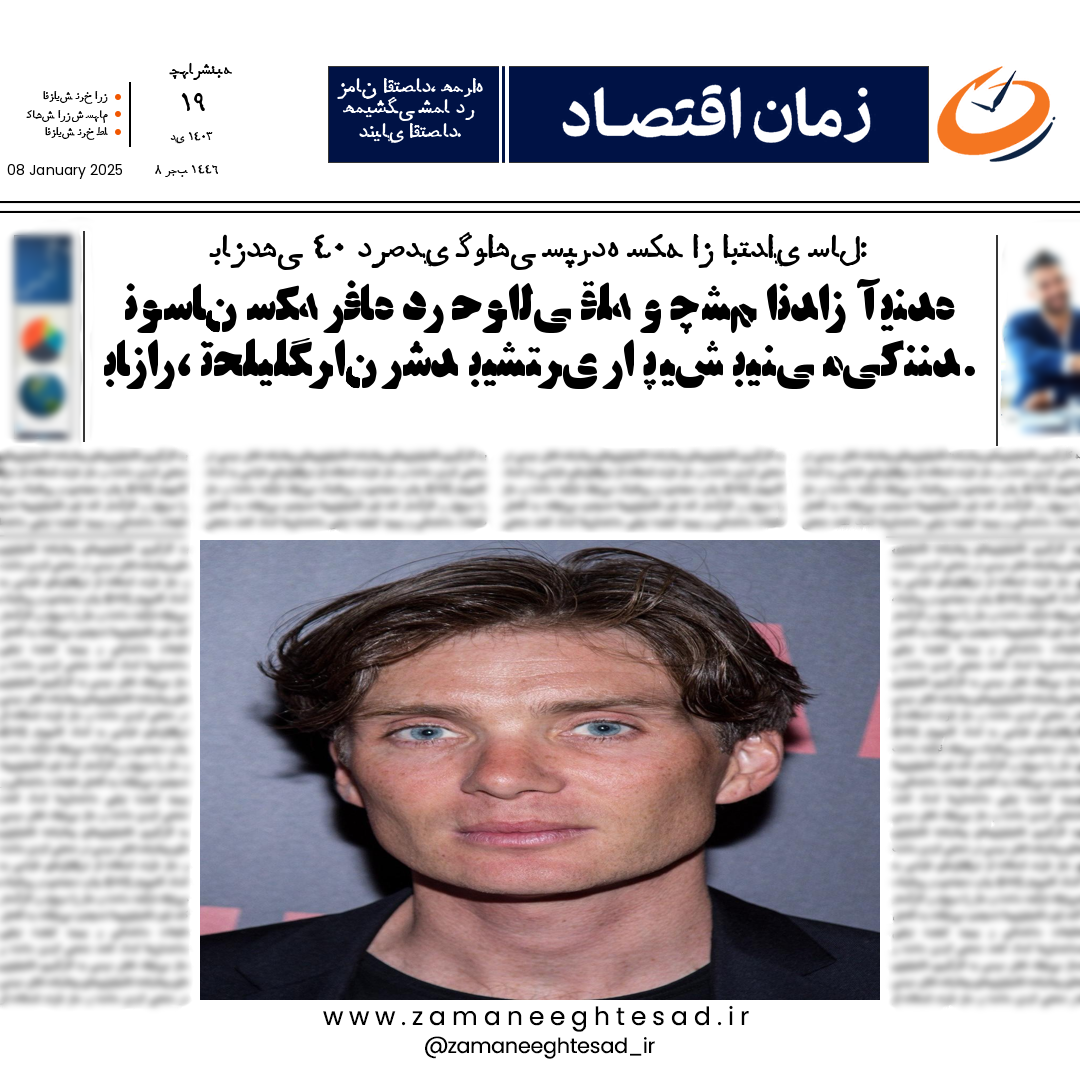
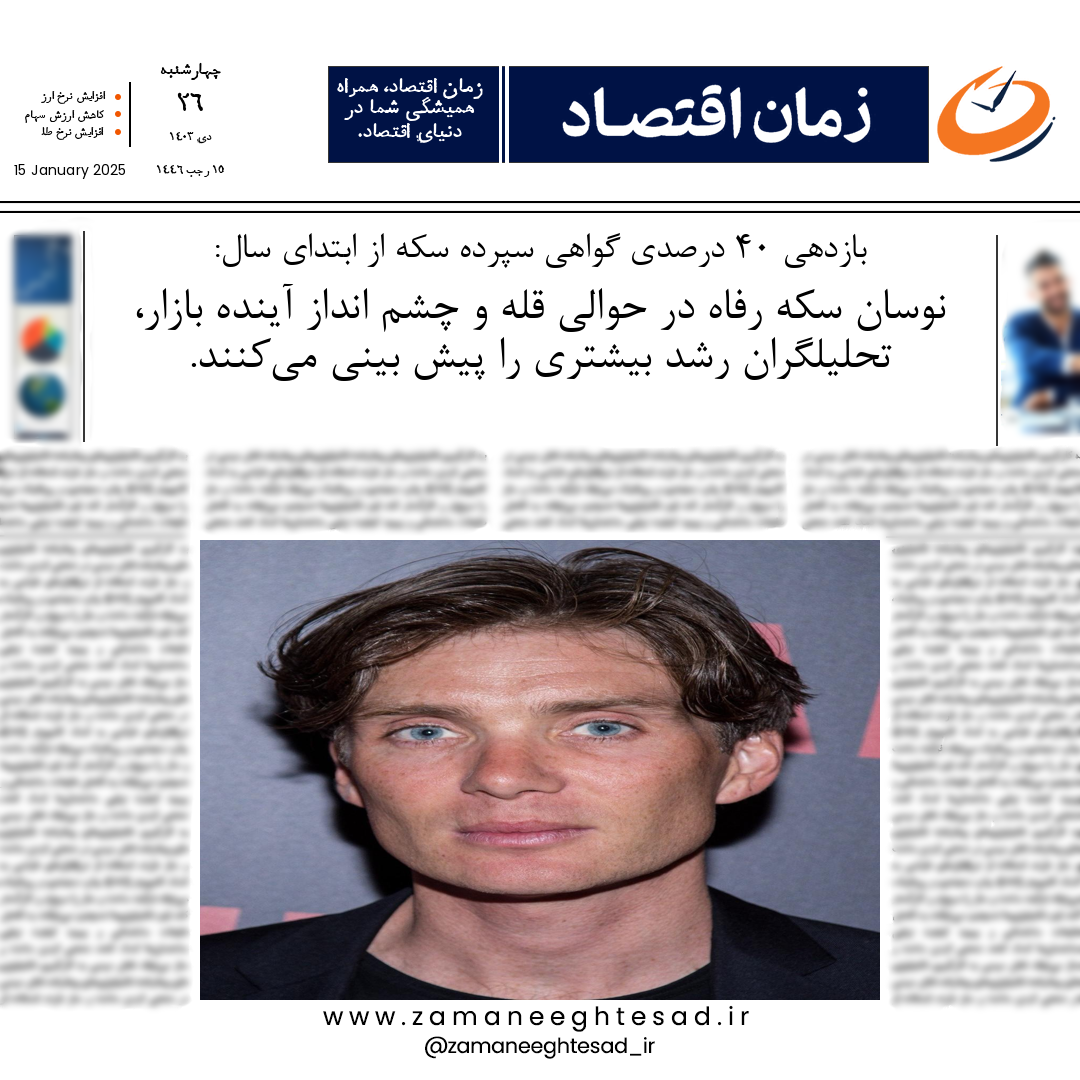
added center alignment for dates

diff --git a/generate_image.py b/generate_image.py
@@ -87,8 +87,8 @@ def generate_news_image(
     # Function to reshape and reorder Farsi text
     def prepare_farsi_text(text):
         reshaped_text = arabic_reshaper.reshape(text)
-        bidi_text = get_display(reshaped_text)
-        return bidi_text
+        # bidi_text = get_display(reshaped_text)
+        return reshaped_text
 
     # Prepare dates
     future_date = datetime.now() + timedelta(days=days_into_future)
@@ -104,34 +104,51 @@ def generate_news_image(
 
     # Default positions
     date_positions =  {
-        "weekday": (170, 60),  # Position of the day of the week in Shamsi calendar
-        "shamsi_day": (180, 90),  # Position of the day number in Shamsi calendar
-        "shamsi_month_year": (170, 130),  # Position of the month and year in Shamsi calendar
-        "miladi": (7, 160),  # Position of the Gregorian date
-        "hejri": (155, 163),  # Position of the Hijri (Islamic) date
+        "weekday": (190, 60),  # Position of the day of the week in Shamsi calendar
+        "shamsi_day": (190, 90),  # Position of the day number in Shamsi calendar
+        "shamsi_month_year": (190, 130),  # Position of the month and year in Shamsi calendar
+        "miladi": (70, 160),  # Position of the Gregorian date
+        "hejri": (190, 163),  # Position of the Hijri (Islamic) date
     }
 
     # Draw dates
     # Draw day of the week
+    # Draw weekday (center-aligned)
     weekday_text = prepare_farsi_text(weekday)
-    draw.text(date_positions["weekday"], weekday_text, font=weekday_font, fill="black")
+    weekday_bbox = draw.textbbox((0, 0), weekday_text, font=weekday_font)
+    weekday_width = weekday_bbox[2] - weekday_bbox[0]
+    weekday_x = date_positions["weekday"][0] - (weekday_width // 2)  # Center-align
+    draw.text((weekday_x, date_positions["weekday"][1]), weekday_text, font=weekday_font, fill="black")
 
-    # Draw Shamsi day
+    # Draw Shamsi day (center-aligned)
     shamsi_day_text = prepare_farsi_text(shamsi_day)
-    draw.text(date_positions["shamsi_day"], shamsi_day_text, font=shamsi_day_font, fill="black")
+    shamsi_day_bbox = draw.textbbox((0, 0), shamsi_day_text, font=shamsi_day_font)
+    shamsi_day_width = shamsi_day_bbox[2] - shamsi_day_bbox[0]
+    shamsi_day_x = date_positions["shamsi_day"][0] - (shamsi_day_width // 2)  # Center-align
+    draw.text((shamsi_day_x, date_positions["shamsi_day"][1]), shamsi_day_text, font=shamsi_day_font, fill="black")
 
-    # Draw Shamsi month and year
+    # Draw Shamsi month and year (center-aligned)
     shamsi_month_year_text = prepare_farsi_text(shamsi_month_year)
-    draw.text(date_positions["shamsi_month_year"], shamsi_month_year_text, font=event_font, fill="black")
+    shamsi_month_year_bbox = draw.textbbox((0, 0), shamsi_month_year_text, font=event_font)
+    shamsi_month_year_width = shamsi_month_year_bbox[2] - shamsi_month_year_bbox[0]
+    shamsi_month_year_x = date_positions["shamsi_month_year"][0] - (shamsi_month_year_width // 2)  # Center-align
+    draw.text((shamsi_month_year_x, date_positions["shamsi_month_year"][1]), shamsi_month_year_text, font=event_font, fill="black")
 
-    # Draw Miladi date
+    # Draw Miladi date (center-aligned)
     miladi_text = miladi_date
-    draw.text(date_positions["miladi"], miladi_text, font=miladi_date_font, fill="black")
+    miladi_bbox = draw.textbbox((0, 0), miladi_text, font=miladi_date_font)
+    miladi_width = miladi_bbox[2] - miladi_bbox[0]
+    miladi_x = date_positions["miladi"][0] - (miladi_width // 2)  # Center-align
+    draw.text((miladi_x, date_positions["miladi"][1]), miladi_text, font=miladi_date_font, fill="black")
 
-    # Draw Hejri date
+    
+    # Draw Hejri date (center-aligned)
     hejri_text = hejri_date
-    draw.text(date_positions["hejri"], hejri_text, font=event_font, fill="black")
-
+    hejri_bbox = draw.textbbox((0, 0), hejri_text, font=event_font)
+    hejri_width = hejri_bbox[2] - hejri_bbox[0]
+    hejri_x = date_positions["hejri"][0] - (hejri_width // 2)  # Center-align
+    draw.text((hejri_x, date_positions["hejri"][1]), hejri_text, font=event_font, fill="black")
+        
     # Prepare Farsi text
     title = prepare_farsi_text(title)
     # main_content = prepare_farsi_text(main_content)

diff --git a/bot2.py b/bot2.py
@@ -205,7 +205,7 @@ async def receive_font_sizes(update: Update, context: CallbackContext):
 
     elif update.message.text == 'انتخاب اندازه دلخواه':
         logger.info("User opted to change font sizes.")  # Log the selection.
-        await update.message.reply_text("لطفاً اندازه فونت تیتر، متن اصلی و شعار را هر کدام در یک خط وارد کنید:")  # Prompt for custom font sizes.
+        await update.message.reply_text("لطفاً اندازه فونت تیتر، متن اصلی و شعار را هر کدام در یک خط وارد کنید. (مقدار پیشفرض اندازه فونت تیتر برابر با ۴۰، متن اصلی ۵۰و شعار ۲۵ است.)")  # Prompt for custom font sizes.
         return FONT_SIZES  # Stay in the FONT_SIZES step.
 
     else:
